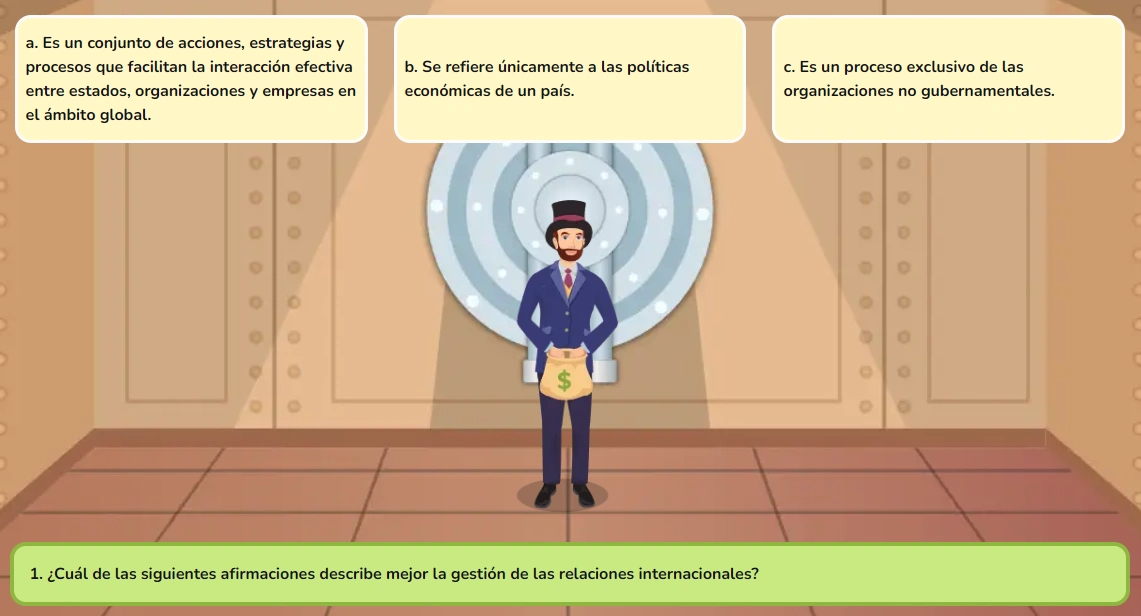
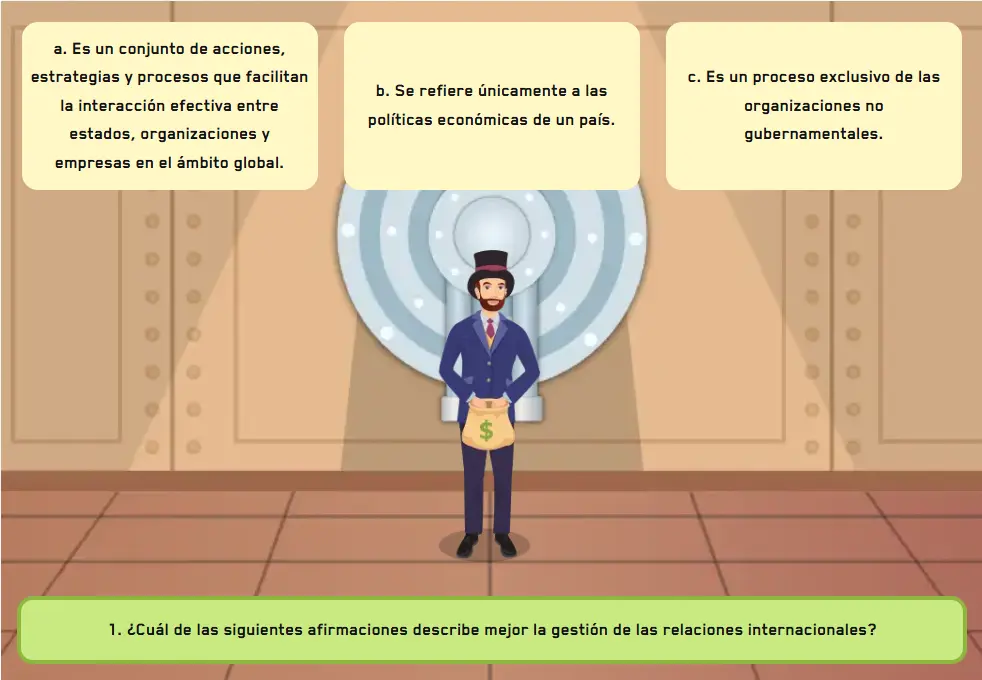
feat: update documentation for unique ID guidelines across game activities

diff --git a/src/content/docs/games/game-money.md b/src/content/docs/games/game-money.md
@@ -1,10 +1,264 @@
 ---
-sidebar:
-  order: 5
 title: Juego de dinero/economía
-description: Juego de dinero/economía
+description: Componente GameMoney para crear actividades interactivas de selección múltiple con temática de economía y dinero.
 ---
 
-# Juego de dinero/economía
+`GameMoney` es el componente raíz para crear preguntas de selección múltiple con temática económica. El estudiante elige la respuesta correcta entre varias opciones. Gestiona el estado de selección, validación y resultado con un retardo configurable antes de mostrar el resultado. Se compone de tres subcomponentes: `GameMoney.Level`, `GameMoney.Radio` y `GameMoney.Button`.
 
-Detalles sobre `game-money`.
+## Vista previa
+
+![Ejemplo de actividad GameMoney mostrando una pregunta de selección múltiple con temática de economía y dinero.](../../../assets/game-money.webp)
+
+## Cómo implementar en un OVA
+
+### 1. Importa los componentes
+
+```tsx
+import { useState } from 'react';
+import { GameMoney } from '@games/game-money';
+import { useGamification } from '@features/gamification';
+import { ToastFeedback } from '@features/toast-feedback';
+import { Button } from '@ui';
+```
+
+---
+
+### 2. Define las constantes
+
+```tsx
+const MODALS = {
+  SUCCESS: 'modal-correct-activity',
+  WRONG: 'modal-wrong-activity'
+};
+
+const LENGTH_QUESTION = 1; // total de preguntas
+```
+
+---
+
+### 3. Configura los hooks
+
+```tsx
+const [isOpen, setIsOpen] = useState<string | null>(null);
+
+const { Modal, Stars, notifyReset, reportResult } = useGamification({
+  id: 'ova-01-activity-1', // debe ser único por actividad
+  total: LENGTH_QUESTION
+});
+```
+
+:::tip[El `id` de gamificación debe ser único por actividad]
+Usa el patrón `ova-[número]-activity-[número]` para mantener consistencia y evitar conflictos en el sistema de puntuación.
+:::
+
+---
+
+### 4. Crea el handler de validación
+
+```tsx
+const handleValidate = ({ result }: { result: boolean }) => {
+  const activityResult = result ? 'SUCCESS' : 'WRONG';
+  setIsOpen(MODALS[activityResult as keyof typeof MODALS]);
+
+  reportResult({
+    success: result,
+    correct: LENGTH_QUESTION,
+    total: LENGTH_QUESTION
+  });
+};
+
+const closeModal = () => setIsOpen(null);
+```
+
+---
+
+### 5. Construye la actividad
+
+La actividad se arma en tres partes dentro de `<GameMoney>`.
+
+**5a. El nivel con su pregunta** — `GameMoney.Level` recibe el texto de la pregunta en `label` y envuelve las opciones:
+
+```tsx
+<GameMoney.Level label="1. ¿Cuál de las siguientes afirmaciones describe mejor la gestión de las relaciones internacionales?">
+  {/* opciones van aquí */}
+</GameMoney.Level>
+```
+
+**5b. Las opciones** — cada `GameMoney.Radio` es una opción seleccionable. Van dentro del `Level`:
+
+```tsx
+<GameMoney.Level label="1. ¿Cuál describe mejor la gestión de las relaciones internacionales?">
+  <GameMoney.Radio
+    id="option-1-1"
+    name="option-1"
+    state="wrong"
+    label="a. Es un conjunto de acciones que facilitan la interacción entre estados y organizaciones."
+  />
+  <GameMoney.Radio
+    id="option-1-2"
+    name="option-1"
+    state="success"
+    label="b. Se refiere únicamente a las políticas económicas de un país."
+  />
+  <GameMoney.Radio
+    id="option-1-3"
+    name="option-1"
+    state="wrong"
+    label="c. Es un proceso exclusivo de organizaciones no gubernamentales."
+  />
+</GameMoney.Level>
+```
+
+> `state="success"` marca la opción correcta. `state="wrong"` las incorrectas. El `name` debe ser igual en todas las opciones del mismo nivel — así solo se puede elegir una. El `id` debe ser único en toda la página.
+
+**5c. Los botones de acción** — van fuera del `Level` pero dentro de `<GameMoney>`:
+
+```tsx
+<Row justifyContent="center" alignItems="center" addClass="u-gap-4">
+  <GameMoney.Button>
+    <Button label="COMPROBAR" variant="check" />
+  </GameMoney.Button>
+  <GameMoney.Button type="reset">
+    <Button label="REINICIAR" onClick={notifyReset} variant="reset" />
+  </GameMoney.Button>
+</Row>
+```
+
+**5d. Todo junto:**
+
+```tsx
+<GameMoney onResult={handleValidate}>
+
+  {/* 5a y 5b — nivel con sus opciones */}
+  <GameMoney.Level label="1. ¿Cuál describe mejor la gestión de las relaciones internacionales?">
+    <GameMoney.Radio id="option-1-1" name="option-1" state="wrong"   label="a. Es un conjunto de acciones que facilitan la interacción entre estados." />
+    <GameMoney.Radio id="option-1-2" name="option-1" state="success" label="b. Se refiere únicamente a las políticas económicas de un país." />
+    <GameMoney.Radio id="option-1-3" name="option-1" state="wrong"   label="c. Es un proceso exclusivo de organizaciones no gubernamentales." />
+  </GameMoney.Level>
+
+  {/* 5c — botones */}
+  <Row justifyContent="center" alignItems="center" addClass="u-gap-4">
+    <GameMoney.Button>
+      <Button label="COMPROBAR" variant="check" />
+    </GameMoney.Button>
+    <GameMoney.Button type="reset">
+      <Button label="REINICIAR" onClick={notifyReset} variant="reset" />
+    </GameMoney.Button>
+  </Row>
+
+</GameMoney>
+```
+
+:::note
+Si hay múltiples preguntas, agrega más bloques `GameMoney.Level` dentro del mismo `<GameMoney>`. El `name` de cada nivel debe ser diferente para que las opciones no interfieran entre sí.
+
+```tsx
+<GameMoney onResult={handleValidate}>
+  <GameMoney.Level label="Pregunta 1...">
+    <GameMoney.Radio id="option-1-1" name="option-1" state="wrong"   label="a. ..." />
+    <GameMoney.Radio id="option-1-2" name="option-1" state="success" label="b. ..." />
+  </GameMoney.Level>
+
+  <GameMoney.Level label="Pregunta 2...">
+    <GameMoney.Radio id="option-2-1" name="option-2" state="success" label="a. ..." />
+    <GameMoney.Radio id="option-2-2" name="option-2" state="wrong"   label="b. ..." />
+  </GameMoney.Level>
+
+  <Row justifyContent="center" alignItems="center" addClass="u-gap-4">
+    <GameMoney.Button>
+      <Button label="COMPROBAR" variant="check" />
+    </GameMoney.Button>
+    <GameMoney.Button type="reset">
+      <Button label="REINICIAR" onClick={notifyReset} variant="reset" />
+    </GameMoney.Button>
+  </Row>
+</GameMoney>
+```
+:::
+
+---
+
+### 6. Agrega los modales de feedback
+
+```tsx
+<Modal
+  audio="assets/audios/content/aud_gr1_ova-01_sld-1 (Bien).mp3"
+  interpreter={{ contentURL: 'content/vid_int_ova-01_sld-1 (Bien).mp4' }}
+/>
+
+<ToastFeedback
+  type="wrong"
+  isOpen={isOpen === MODALS.WRONG}
+  onClose={closeModal}
+  interpreter={{ contentURL: 'content/vid_int_ova-01_sld-1 (Incorrecto).mp4' }}
+  audio="assets/audios/content/aud_gr1_ova-01_sld-1 (Incorrecto).mp3">
+  <p>Revisa el contenido e intenta de nuevo.</p>
+</ToastFeedback>
+
+<ToastFeedback
+  type="success"
+  isOpen={isOpen === MODALS.SUCCESS}
+  onClose={closeModal}
+  interpreter={{ contentURL: 'content/vid_int_ova-01_sld-1 (Correcto).mp4' }}
+  audio="assets/audios/content/aud_gr1_ova-01_sld-1 (Correcto).mp3">
+  <p>¡Muy bien! Has respondido correctamente.</p>
+</ToastFeedback>
+```
+
+---
+
+## Subcomponentes
+
+### `GameMoney`
+
+Contenedor raíz. Gestiona el estado global de selección y validación con retardo configurable.
+
+| Prop | Tipo | Req. | Descripción |
+|---|---|---|---|
+| `onResult` | `({ result, options }) => void` | | Callback al comprobar. Recibe `result` (boolean) y el array de opciones seleccionadas |
+| `minSelected` | `number` | | Mínimo de opciones seleccionadas para habilitar Comprobar. Por defecto `1` |
+| `resultDelayMs` | `number` | | Retardo en milisegundos antes de ejecutar `onResult` tras comprobar. Por defecto `900` |
+
+:::tip[Usa `resultDelayMs` para sincronizar con animaciones]
+El retardo de 900ms por defecto está pensado para que la animación del resultado termine antes de abrir el modal. Si la animación de tu variante es más larga o más corta, ajusta este valor.
+
+```tsx
+<GameMoney onResult={handleValidate} resultDelayMs={1200}>
+```
+:::
+
+---
+
+### `GameMoney.Level`
+
+Contenedor de la pregunta y sus opciones. Accede al contexto interno para mostrar el estado de validación y resultado.
+
+| Prop | Tipo | Req. | Descripción |
+|---|---|---|---|
+| `label` | `string` | ✓ | Texto de la pregunta |
+| `addClass` | `string` | | Clases utilitarias adicionales para el contenedor del nivel |
+
+---
+
+### `GameMoney.Radio`
+
+Cada opción de respuesta dentro de un nivel.
+
+| Prop | Tipo | Req. | Descripción |
+|---|---|---|---|
+| `id` | `string` | ✓ | Identificador único en toda la página |
+| `name` | `string` | ✓ | Agrupa las opciones del mismo nivel. Igual en todos los radios del mismo `Level` |
+| `label` | `string` | ✓ | Texto visible de la opción |
+| `state` | `"success" \| "wrong"` | ✓ | Define si la opción es correcta o incorrecta |
+
+> Debe haber exactamente un `state="success"` por nivel.
+
+---
+
+### `GameMoney.Button`
+
+Botón de acción. Siempre debe ir dentro de `<GameMoney>`, fuera del `Level`.
+
+| Prop | Tipo | Req. | Descripción |
+|---|---|---|---|
+| `type` | `"reset"` | | Sin valor comprueba y dispara `onResult`. Con `"reset"` reinicia la selección |

diff --git a/src/content/docs/games/game-space.md b/src/content/docs/games/game-space.md
@@ -47,17 +47,6 @@ const { Modal, Stars, notifyReset, reportResult } = useGamification({
  
 :::tip[El `id` de gamificación debe ser único por actividad]
 Cada actividad del proyecto debe tener un `id` diferente. Usa el patrón `ova-[número]-activity-[número]` para mantener consistencia.
- 
-```tsx
-// ✅ Correcto — cada actividad tiene su propio id
-useGamification({ id: 'ova-01-activity-1', total: 1 }) // primera actividad del OVA 01
-useGamification({ id: 'ova-01-activity-2', total: 1 }) // segunda actividad del OVA 01
-useGamification({ id: 'ova-02-activity-1', total: 1 }) // primera actividad del OVA 02
- 
-// ❌ Incorrecto — id duplicado rompe el sistema de puntuación
-useGamification({ id: 'ova-01-activity-1', total: 1 })
-useGamification({ id: 'ova-01-activity-1', total: 1 })
-```
 :::
  
 ---

diff --git a/src/content/docs/activities/dnd-activity.md b/src/content/docs/activities/dnd-activity.md
@@ -59,17 +59,6 @@ const { Modal, Stars, notifyReset, reportResult } = useGamification({
 
 :::tip[El `id` de gamificación debe ser único por actividad]
 Cada actividad del proyecto debe tener un `id` diferente. Usa el patrón `ova-[número]-activity-[número]` para mantener consistencia.
- 
-```tsx
-// ✅ Correcto — cada actividad tiene su propio id
-useGamification({ id: 'ova-01-activity-1', total: 1 }) // primera actividad del OVA 01
-useGamification({ id: 'ova-01-activity-2', total: 1 }) // segunda actividad del OVA 01
-useGamification({ id: 'ova-02-activity-1', total: 1 }) // primera actividad del OVA 02
- 
-// ❌ Incorrecto — id duplicado rompe el sistema de puntuación
-useGamification({ id: 'ova-01-activity-1', total: 1 })
-useGamification({ id: 'ova-01-activity-1', total: 1 })
-```
 :::
 
 ---

diff --git a/src/content/docs/activities/radio-activity.md b/src/content/docs/activities/radio-activity.md
@@ -50,17 +50,6 @@ const { Modal, Stars, notifyReset, reportResult } = useGamification({
 
 :::tip[El `id` de gamificación debe ser único por actividad]
 Cada actividad del proyecto debe tener un `id` diferente. Usa el patrón `ova-[número]-activity-[número]` para mantener consistencia.
- 
-```tsx
-// ✅ Correcto — cada actividad tiene su propio id
-useGamification({ id: 'ova-01-activity-1', total: 1 }) // primera actividad del OVA 01
-useGamification({ id: 'ova-01-activity-2', total: 1 }) // segunda actividad del OVA 01
-useGamification({ id: 'ova-02-activity-1', total: 1 }) // primera actividad del OVA 02
- 
-// ❌ Incorrecto — id duplicado rompe el sistema de puntuación
-useGamification({ id: 'ova-01-activity-1', total: 1 })
-useGamification({ id: 'ova-01-activity-1', total: 1 })
-```
 :::
 
 ---

diff --git a/src/content/docs/activities/select-activity.md b/src/content/docs/activities/select-activity.md
@@ -59,17 +59,6 @@ const { Modal, Stars, notifyReset, reportResult } = useGamification({
 
 :::tip[El `id` de gamificación debe ser único por actividad]
 Cada actividad del proyecto debe tener un `id` diferente. Usa el patrón `ova-[número]-activity-[número]` para mantener consistencia.
- 
-```tsx
-// ✅ Correcto — cada actividad tiene su propio id
-useGamification({ id: 'ova-01-activity-1', total: 1 }) // primera actividad del OVA 01
-useGamification({ id: 'ova-01-activity-2', total: 1 }) // segunda actividad del OVA 01
-useGamification({ id: 'ova-02-activity-1', total: 1 }) // primera actividad del OVA 02
- 
-// ❌ Incorrecto — id duplicado rompe el sistema de puntuación
-useGamification({ id: 'ova-01-activity-1', total: 1 })
-useGamification({ id: 'ova-01-activity-1', total: 1 })
-```
 :::
 
 ---

diff --git a/src/content/docs/games/game-fishs.md b/src/content/docs/games/game-fishs.md
@@ -52,17 +52,6 @@ const { Modal, Stars, notifyReset, reportResult } = useGamification({
 
 :::tip[El `id` de gamificación debe ser único por actividad]
 Cada actividad del proyecto debe tener un `id` diferente. Usa el patrón `ova-[número]-activity-[número]` para mantener consistencia.
- 
-```tsx
-// ✅ Correcto — cada actividad tiene su propio id
-useGamification({ id: 'ova-01-activity-1', total: 1 }) // primera actividad del OVA 01
-useGamification({ id: 'ova-01-activity-2', total: 1 }) // segunda actividad del OVA 01
-useGamification({ id: 'ova-02-activity-1', total: 1 }) // primera actividad del OVA 02
- 
-// ❌ Incorrecto — id duplicado rompe el sistema de puntuación
-useGamification({ id: 'ova-01-activity-1', total: 1 })
-useGamification({ id: 'ova-01-activity-1', total: 1 })
-```
 :::
 
 ---

diff --git a/src/content/docs/games/game-race-card.md b/src/content/docs/games/game-race-card.md
@@ -48,17 +48,6 @@ const { Modal, Stars, notifyReset, reportResult } = useGamification({
 
 :::tip[El `id` de gamificación debe ser único por actividad]
 Cada actividad del proyecto debe tener un `id` diferente. Usa el patrón `ova-[número]-activity-[número]` para mantener consistencia.
- 
-```tsx
-// ✅ Correcto — cada actividad tiene su propio id
-useGamification({ id: 'ova-01-activity-1', total: 1 }) // primera actividad del OVA 01
-useGamification({ id: 'ova-01-activity-2', total: 1 }) // segunda actividad del OVA 01
-useGamification({ id: 'ova-02-activity-1', total: 1 }) // primera actividad del OVA 02
- 
-// ❌ Incorrecto — id duplicado rompe el sistema de puntuación
-useGamification({ id: 'ova-01-activity-1', total: 1 })
-useGamification({ id: 'ova-01-activity-1', total: 1 })
-```
 :::
 
 ---

diff --git a/src/content/docs/games/game-this-or-that.md b/src/content/docs/games/game-this-or-that.md
@@ -49,17 +49,6 @@ const { Modal, Stars, notifyReset, reportResult } = useGamification({
 
 :::tip[El `id` de gamificación debe ser único por actividad]
 Cada actividad del proyecto debe tener un `id` diferente. Usa el patrón `ova-[número]-activity-[número]` para mantener consistencia.
- 
-```tsx
-// ✅ Correcto — cada actividad tiene su propio id
-useGamification({ id: 'ova-01-activity-1', total: 1 }) // primera actividad del OVA 01
-useGamification({ id: 'ova-01-activity-2', total: 1 }) // segunda actividad del OVA 01
-useGamification({ id: 'ova-02-activity-1', total: 1 }) // primera actividad del OVA 02
- 
-// ❌ Incorrecto — id duplicado rompe el sistema de puntuación
-useGamification({ id: 'ova-01-activity-1', total: 1 })
-useGamification({ id: 'ova-01-activity-1', total: 1 })
-```
 :::
 
 ---
